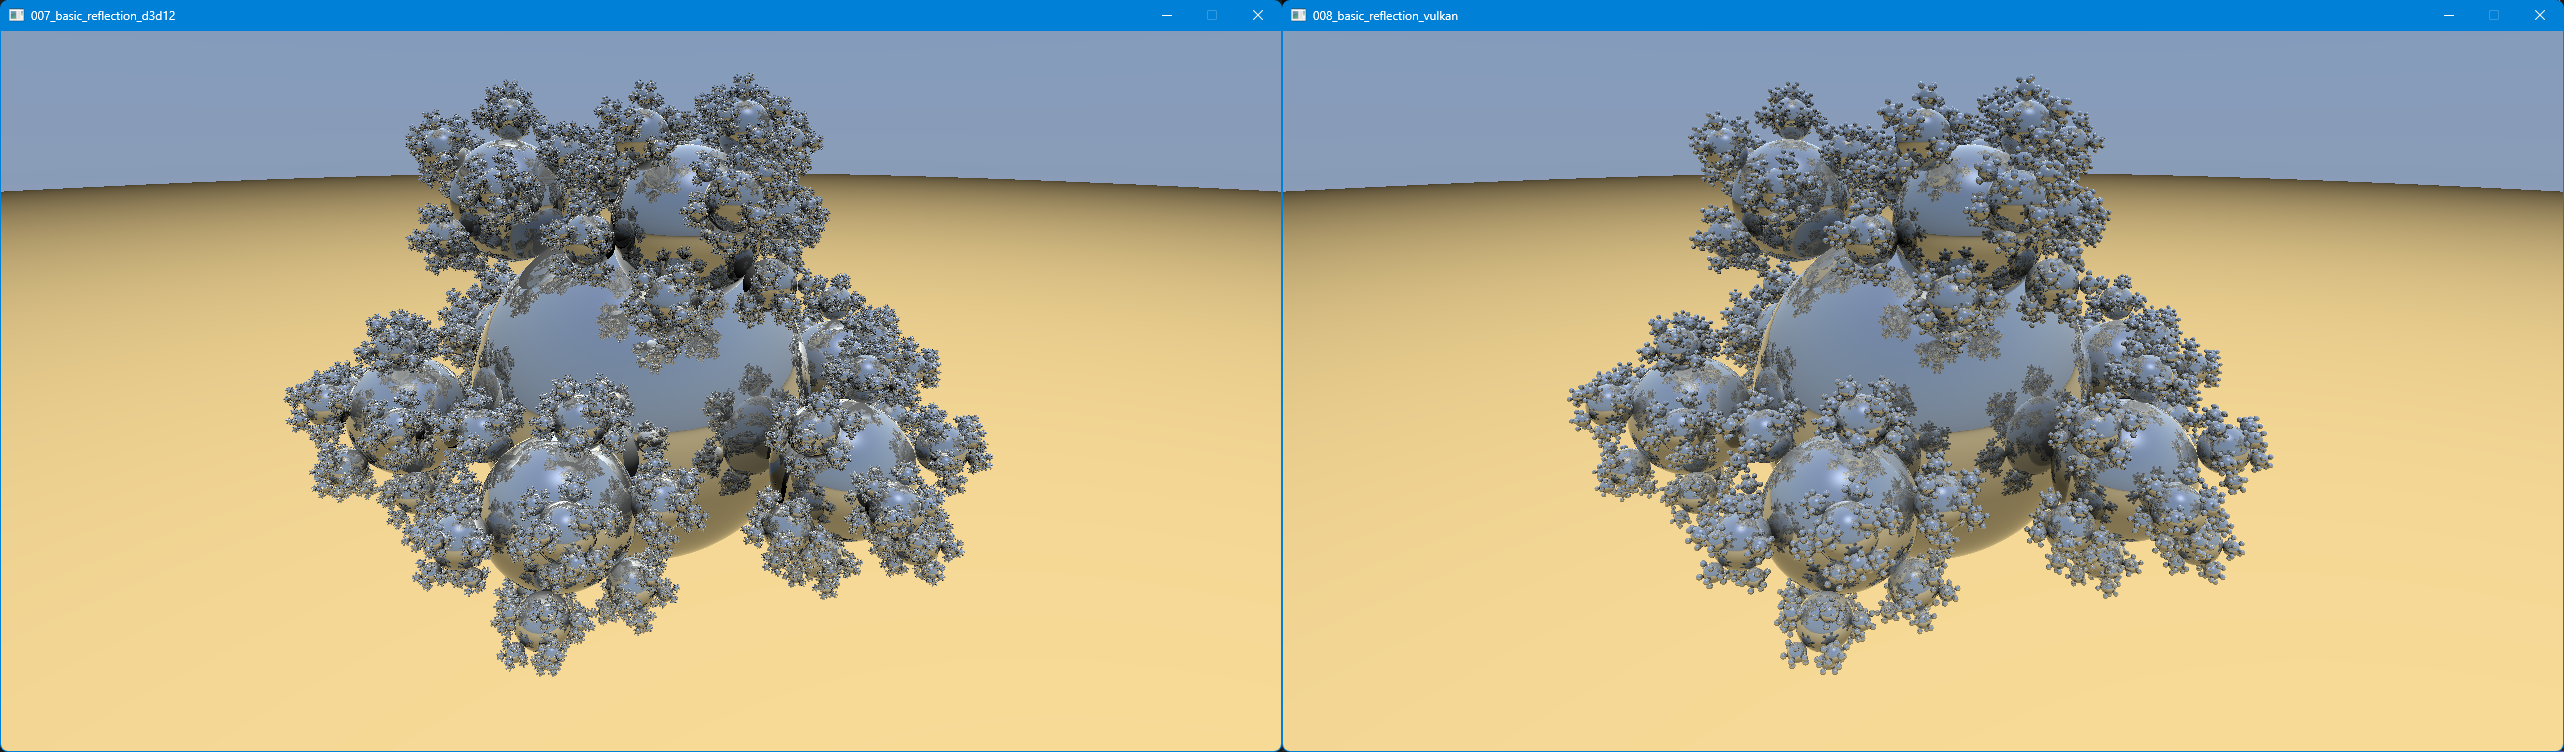
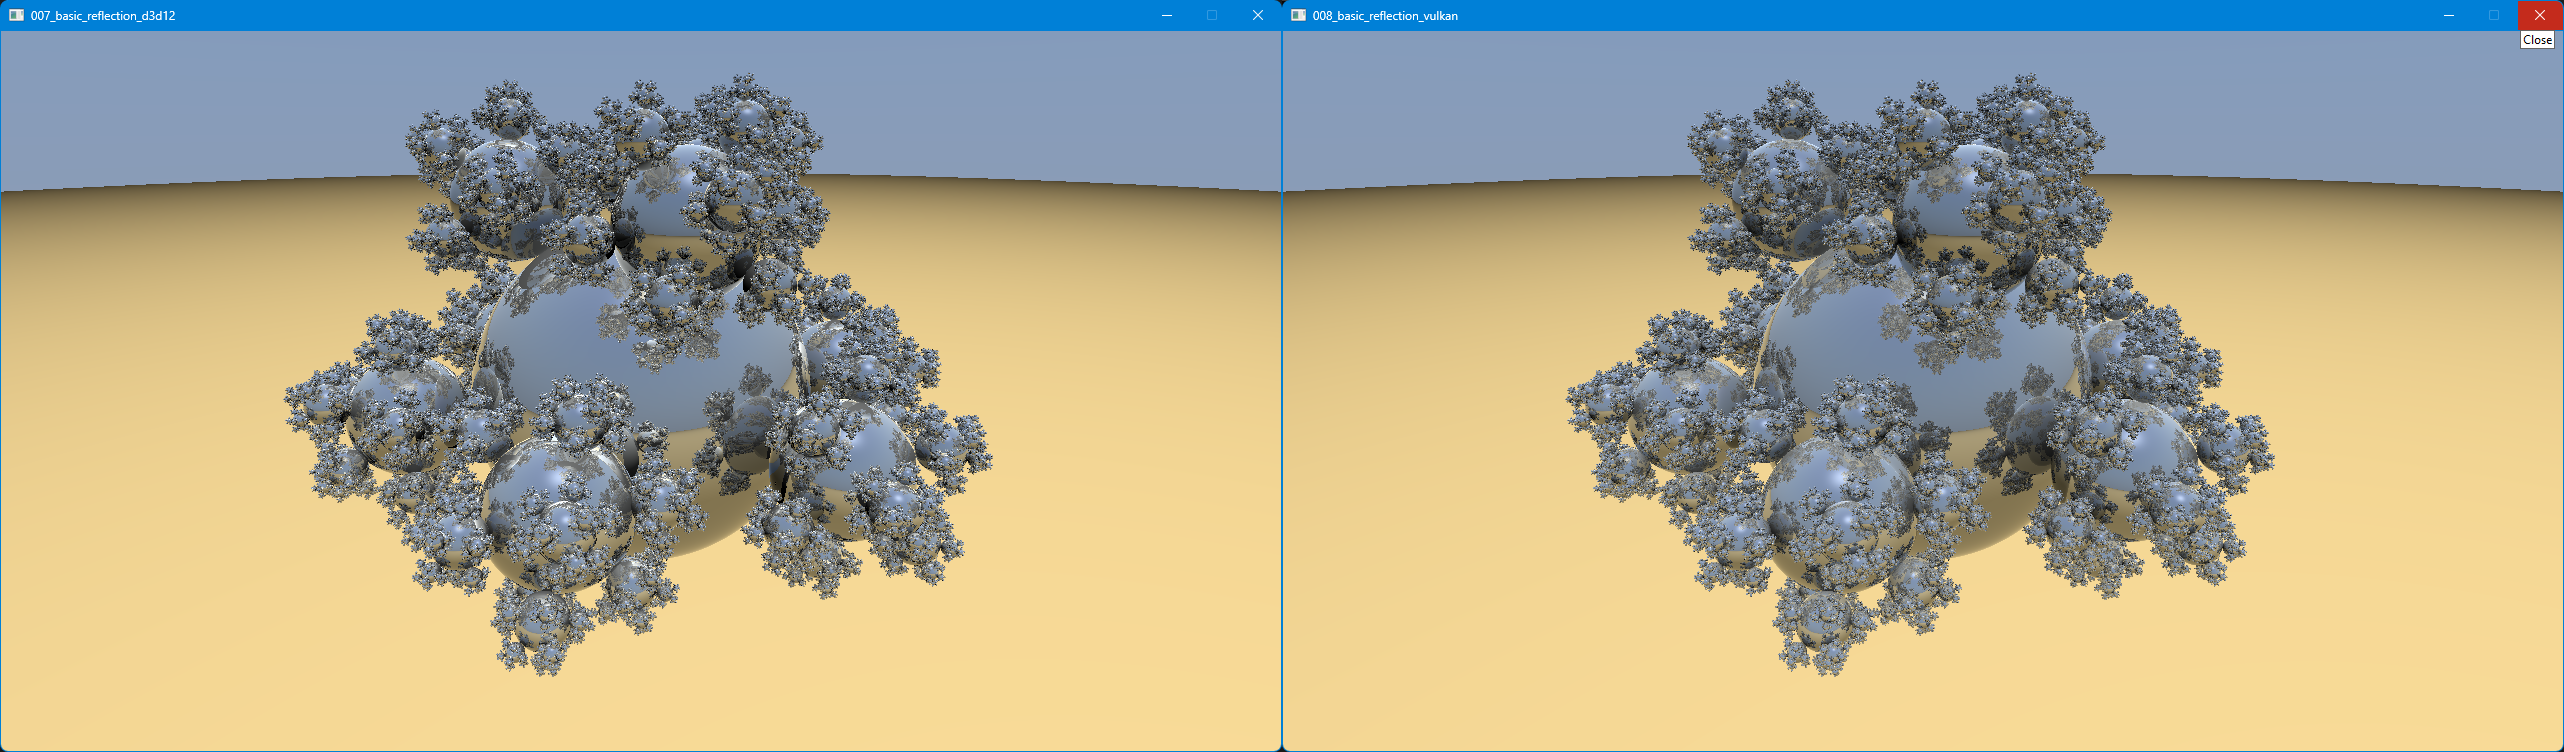
Fixed Vulkan spherelfake max level

Changed region(s): [[0.5928, 0.0918, 0.9048, 0.887], [0.9672, 0.0, 1.0, 0.0612]]

diff --git a/projects/raytracing/008_basic_reflection_vulkan/008_basic_reflection_vulkan.cpp b/projects/raytracing/008_basic_reflection_vulkan/008_basic_reflection_vulkan.cpp
@@ -746,7 +746,7 @@ void CreateSphereBuffer(VulkanRenderer* pRenderer, uint32_t* pNumSpheres, Vulkan
     sphere.aabbMax = (radius * vec3(1, 1, 1)) + vec3(0, radius, 0);
     spheres.push_back(sphere);
 
-    GenerateSpheres(0, 4, radius / 3.0f, radius, vec3(0, radius, 0), vec3(0, 1, 0), spheres);
+    GenerateSpheres(0, 5, radius / 3.0f, radius, vec3(0, radius, 0), vec3(0, 1, 0), spheres);
 
     *pNumSpheres = CountU32(spheres);
 
